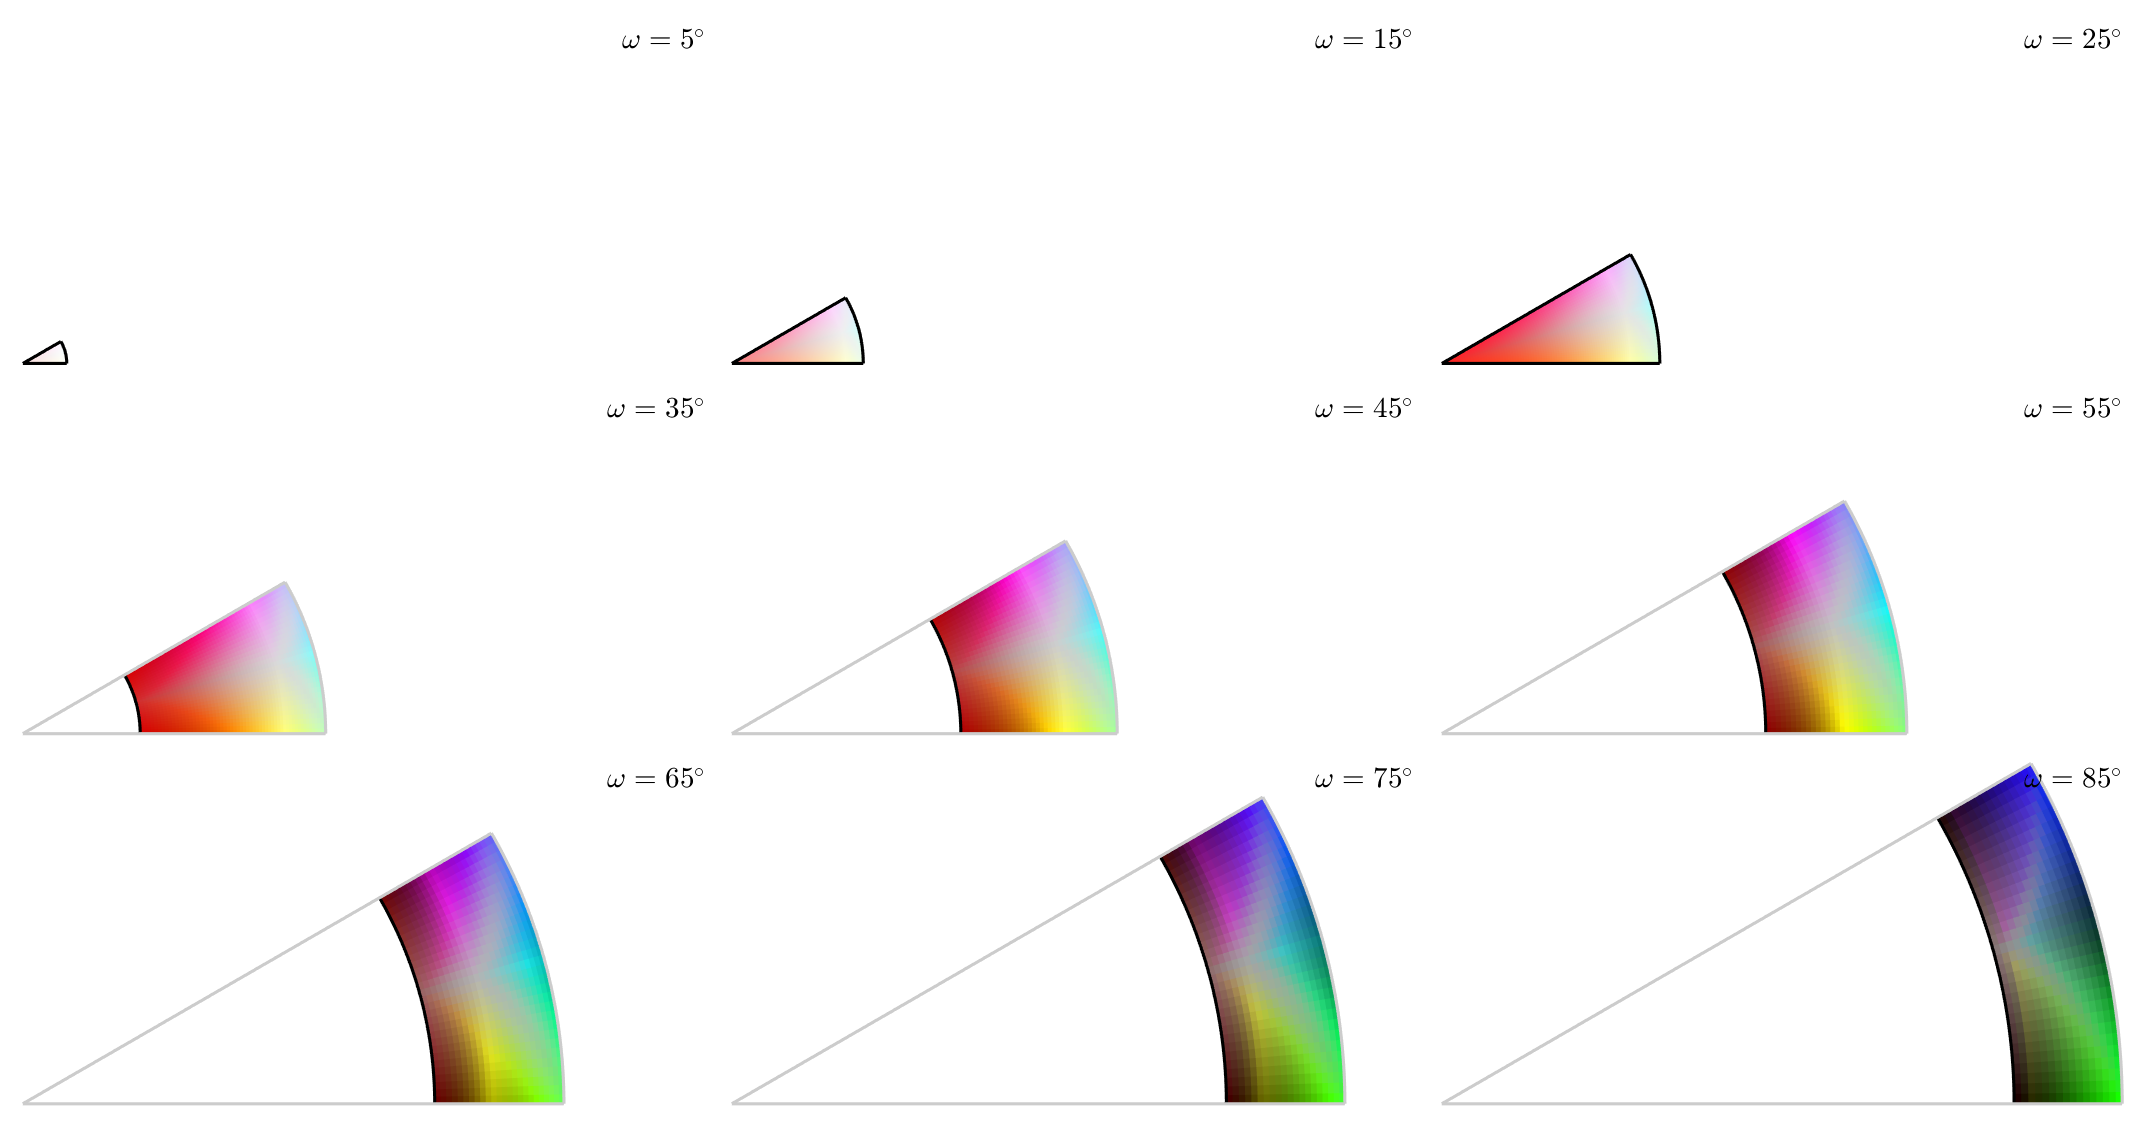
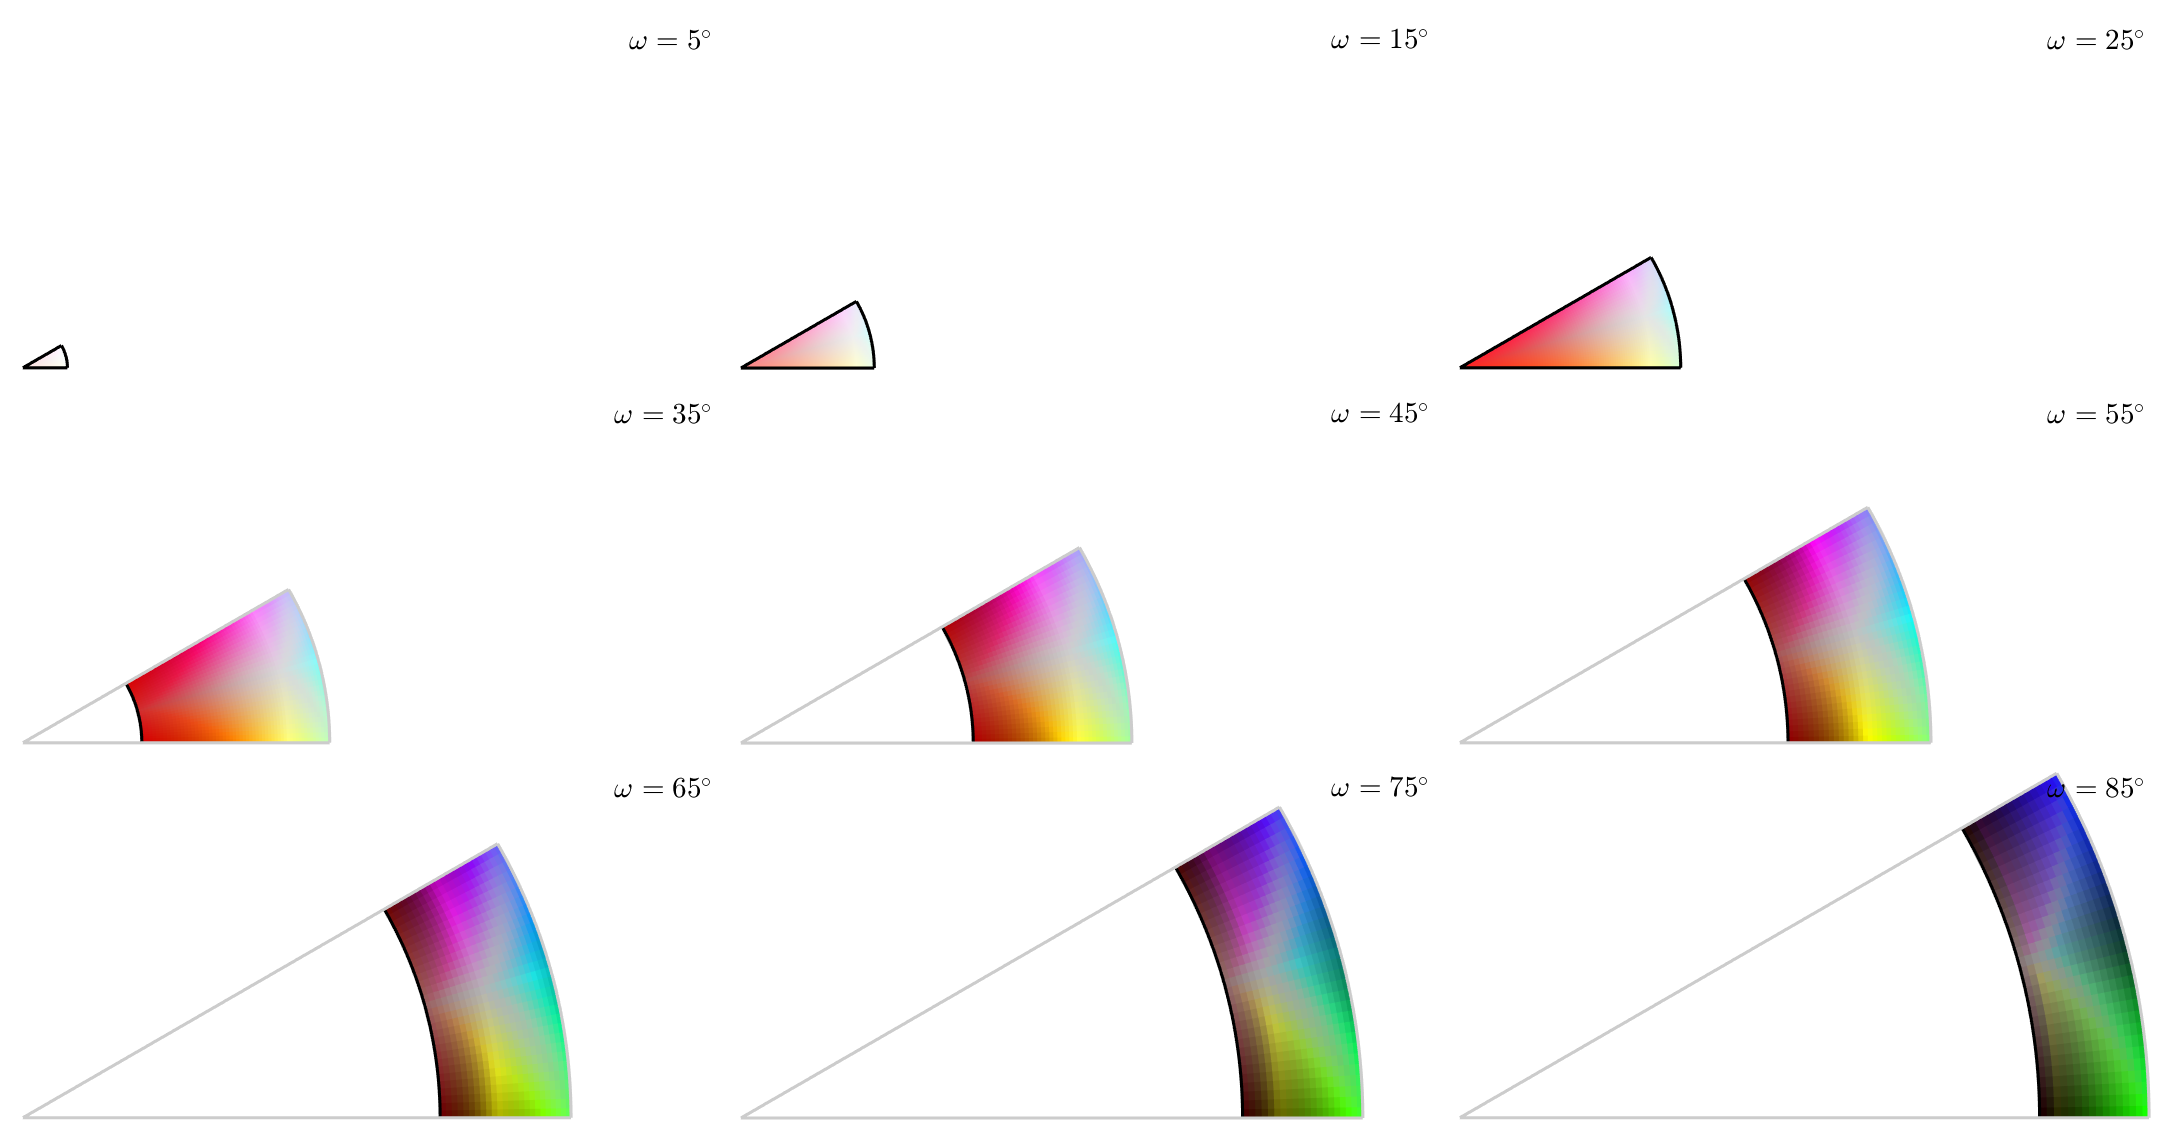
Small Additional Fixes

diff --git a/plotActivityPole_gif.m b/plotActivityPole_gif.m
@@ -8,70 +8,122 @@
 strainStep = 22;
 
 %plot single strain step graphs
+%% Prism 1
+
+fn = [graphpath filesep 'SlipActivity' filesep];
+
 figure
 contourf(r,a_prism1(strainStep,:))
 colorbar
-mtexColorMap blue2red
+mtexColorMap black2white
 caxis([0,1])
 title('prism1')
+
+saveas(gcf,[fn 'Prism_1' '.png'])
+close
+
+%% Prism 3
+
+fn = [graphpath filesep 'SlipActivity' filesep];
 
 figure
 contourf(r,a_prism3(strainStep,:))
 colorbar
-mtexColorMap blue2red
+mtexColorMap black2white
 caxis([0,1])
 title('prism3')
+
+saveas(gcf,[fn 'Prism_3' '.png'])
+close
+
+%% Basal 1
+
+fn = [graphpath filesep 'SlipActivity' filesep];
 
 figure
 contourf(r,a_basal1(strainStep,:))
 colorbar
-mtexColorMap blue2red
+mtexColorMap black2white
 caxis([0,1])
 title('basal1')
+
+saveas(gcf,[fn 'Basal_1' '.png'])
+close
+
+%% Basal 3
+
+fn = [graphpath filesep 'SlipActivity' filesep];
 
 figure
 contourf(r,a_basal3(strainStep,:))
 colorbar
-mtexColorMap blue2red
+mtexColorMap black2white
 caxis([0,1])
 title('basal3')
+
+saveas(gcf,[fn 'Basal_3' '.png'])
+close
+
+%% Mix
+
+fn = [graphpath filesep 'SlipActivity' filesep];
 
 figure
 contourf(r,a_mix2(strainStep,:))
 colorbar
-mtexColorMap blue2red
+mtexColorMap black2white
 caxis([0,1])
 title('mix')
+
+saveas(gcf,[fn 'Mix' '.png'])
+close
+
+%% Pyramidal
+
+fn = [graphpath filesep 'SlipActivity' filesep];
 
 figure
 contourf(r,a_pyr(strainStep,:))
 colorbar
-mtexColorMap blue2red
+mtexColorMap black2white
 caxis([0,1])
 title('pyr')
+
+saveas(gcf,[fn 'Pyramidal' '.png'])
+close
+
+%% Basal + Prismatic
+
+fn = [graphpath filesep 'SlipActivity' filesep];
 
 figure
 contourf(r,basal_prism(strainStep,:))
 colorbar
-mtexColorMap blue2red
+mtexColorMap black2white
 caxis([0,1])
 title('Basal + Prism')
 
+saveas(gcf,[fn 'Basal_Prismatic' '.png'])
+close
+
+%%
 % figure
 % contourf(r,squeeze(activitySum(22,:,7)))
 % title('SUM')
 
 %% Generate gifs for strain evolution
 
+fn = [graphpath filesep 'SlipActivity' filesep];
+
 %prism 1
 w = waitbar(0);
 for i = 1:21
     h = figure;
     set(h, 'visible', 'off');
-    filename = 'prism1Activity_strain.gif';
+    filename = [fn 'prism1Activity_strain.gif'];
     contourf(r,a_prism1(i,:))
     colorbar
-    mtexColorMap blue2red
+    mtexColorMap black2white
     caxis([0,1])
     title(sprintf('Prism 1 Activity at Strain %.0f',i),'visible', 'on');
     set(h, 'visible', 'off');
@@ -96,10 +148,10 @@ w = waitbar(0);
 for i = 1:21
     h = figure;
     set(h, 'visible', 'off');
-    filename = 'prism3Activity_strain.gif';
+    filename = [fn 'prism3Activity_strain.gif'];
     contourf(r,a_prism1(i,:))
     colorbar
-    mtexColorMap blue2red
+    mtexColorMap black2white
     caxis([0,1])
     title(sprintf('Prism 3 Activity at Strain %.0f',i),'visible', 'on');
     set(h, 'visible', 'off');
@@ -118,15 +170,16 @@ for i = 1:21
     waitbar(i/21, w, sprintf('Prism 3 Progress: %.0f%%',i/21*100) );
 end
 close(w);
+
 % basal1
 w = waitbar(0);
 for i = 1:21
     h = figure;
     set(h, 'visible', 'off');
-    filename = 'basal1Activity_strain.gif';
+    filename = [fn 'basal1Activity_strain.gif'];
     contourf(r,a_prism1(i,:))
     colorbar
-    mtexColorMap blue2red
+    mtexColorMap black2white
     caxis([0,1])
     title(sprintf('Basal 1 Activity at Strain %.0f',i),'visible', 'on');
     set(h, 'visible', 'off');
@@ -145,15 +198,16 @@ for i = 1:21
     waitbar(i/21, w, sprintf('Basal 1 Progress: %.0f%%',i/21*100) );
 end
 close(w);
+
 % basal3
 w = waitbar(0);
 for i = 1:21
     h = figure;
     set(h, 'visible', 'off');
-    filename = 'basal3Activity_strain.gif';
+    filename = [fn 'basal3Activity_strain.gif'];
     contourf(r,a_prism1(i,:))
     colorbar
-    mtexColorMap blue2red
+    mtexColorMap black2white
     caxis([0,1])
     title(sprintf('Basal 3 Activity at Strain %.0f',i),'visible', 'on');
     set(h, 'visible', 'off');
@@ -172,15 +226,16 @@ for i = 1:21
     waitbar(i/21, w, sprintf('Basal 3 Progress: %.0f%%',i/21*100) );
 end
 close(w);
+
 % pyr
 w = waitbar(0);
 for i = 1:21
     h = figure;
     set(h, 'visible', 'off');
-    filename = 'pyrActivity_strain.gif';
+    filename = [fn 'pyrActivity_strain.gif'];
     contourf(r,a_pyr(i,:))
     colorbar
-    mtexColorMap blue2red
+    mtexColorMap black2white
     caxis([0,1])
     title(sprintf('Pyramidal Activity at Strain %.0f',i),'visible', 'on');
     set(h, 'visible', 'off');
@@ -199,15 +254,16 @@ for i = 1:21
     waitbar(i/21, w, sprintf('Pyramidal Progress: %.0f%%',i/21*100) );
 end
 close(w);
+
 % mix2 
 w = waitbar(0);
 for i = 1:21
     h = figure;
     set(h, 'visible', 'off');
-    filename = 'mix2Activity_strain.gif';
+    filename = [fn 'mix2Activity_strain.gif'];
     contourf(r,a_mix2(i,:))
     colorbar
-    mtexColorMap blue2red
+    mtexColorMap black2white
     caxis([0,1])
     title(sprintf('Basal and Prism 2 Mixed Activity at Strain %.0f',i),'visible', 'on');
     set(h, 'visible', 'off');
@@ -232,10 +288,10 @@ w = waitbar(0);
 for i = 1:21
     h = figure;
     set(h, 'visible', 'off');
-    filename = 'allBasalPrismActivity_strain.gif';
+    filename = [fn 'allBasalPrismActivity_strain.gif'];
     contourf(r,basal_prism(i,:))
     colorbar
-    mtexColorMap blue2red
+    mtexColorMap black2white
     caxis([0,1])
     title(sprintf('Sum of all Basal and Prism Activity at Strain %.0f',i),'visible', 'on');
     set(h, 'visible', 'off');

diff --git a/GenerateGraphics.m b/GenerateGraphics.m
@@ -13,6 +13,7 @@ if ~exist([datapath filesep 'Graphics'], 'dir')
     mkdir([graphpath filesep 'AlphaAlpha'])
     mkdir([graphpath filesep 'AlphaBeta'])
     mkdir([graphpath filesep 'BetaBeta'])
+    mkdir([graphpath filesep 'SlipActivity'])
     sprintf('New Directory Graphics created.');
 else
     graphpath = [datapath filesep 'Graphics'];
@@ -338,46 +339,9 @@ for j = 1:segments-1
 end
 close
 
-%% Alpha-Beta Binning Strain = 1
+%% Slip Activity Plots
 
-% for i = 1:length(r)
-%     for j = 1:segments
-%         if adiv(i,j) > thresh
-%             adiv_thresh(i,j) = 1;
-%         else
-%             adiv_thresh(i,j) = 0;
-%         end
-%     end
-% end
-% 
-% for i = 1:length(r)
-%     for j = 1:segments
-%         if bdiv(i,j) > thresh
-%             bdiv_thresh(i,j) = 1;
-%         else
-%             bdiv_thresh(i,j) = 0;
-%         end
-%     end
-% end
-% 
-% for i = 1:length(r)
-%     for j = 1:segments
-%         if mangle(i,j) > thresh
-%             mangle_thresh(i,j) = 1;
-%         else
-%             mangle_thresh(i,j) = 0;
-%         end
-%     end
-% end
-% 
-% fn = [pwd filesep 'Graphics' filesep 'AlphaBeta' filesep];
-% 
-% figure
-% contourf(r,mangle_thresh(:,segments))
-% %setColorRange([0 MaxMisoScale])
-% colorbar
-% mtexColorMap blue2red
-% saveas(gcf,[fn 'BinningStrain1' res '.png'])
-% hold off
-% close
+plotActivityPole_gif;
+
+%% Binning Plots
 

diff --git a/InitializeParameters.m b/InitializeParameters.m
@@ -26,7 +26,7 @@ segments = 22;
 % 1387 rotations = 5
 % 2093 rotations = 4
 
-resolution = 15; %degrees
+resolution = 90; %degrees
 
 r = plotS2Grid('resolution',resolution*degree,'upper');
 
